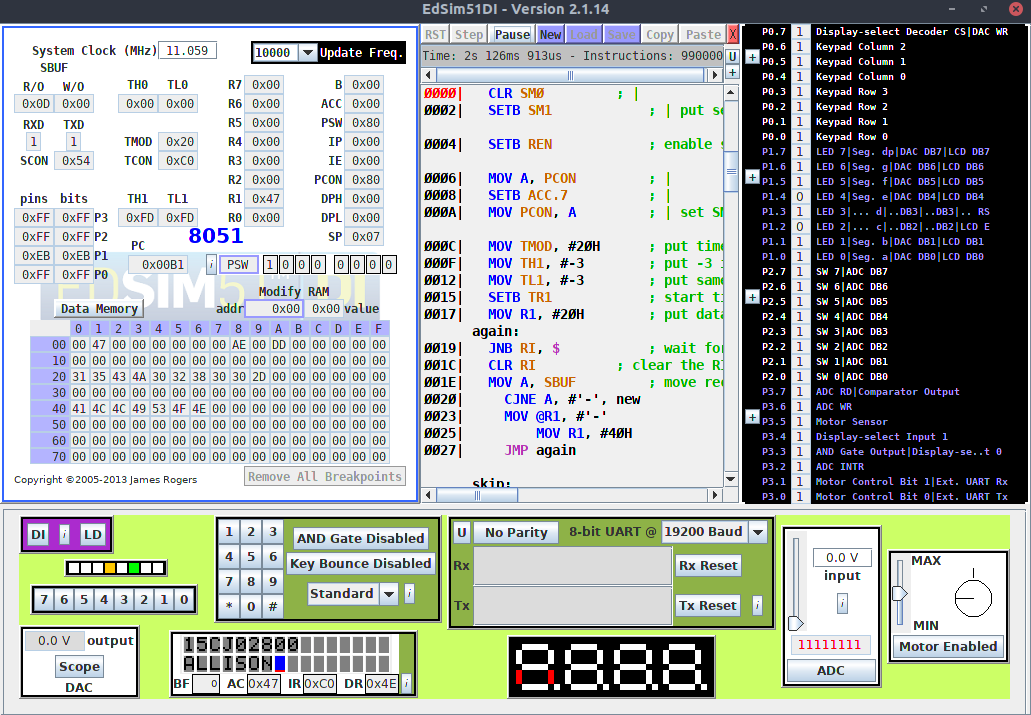
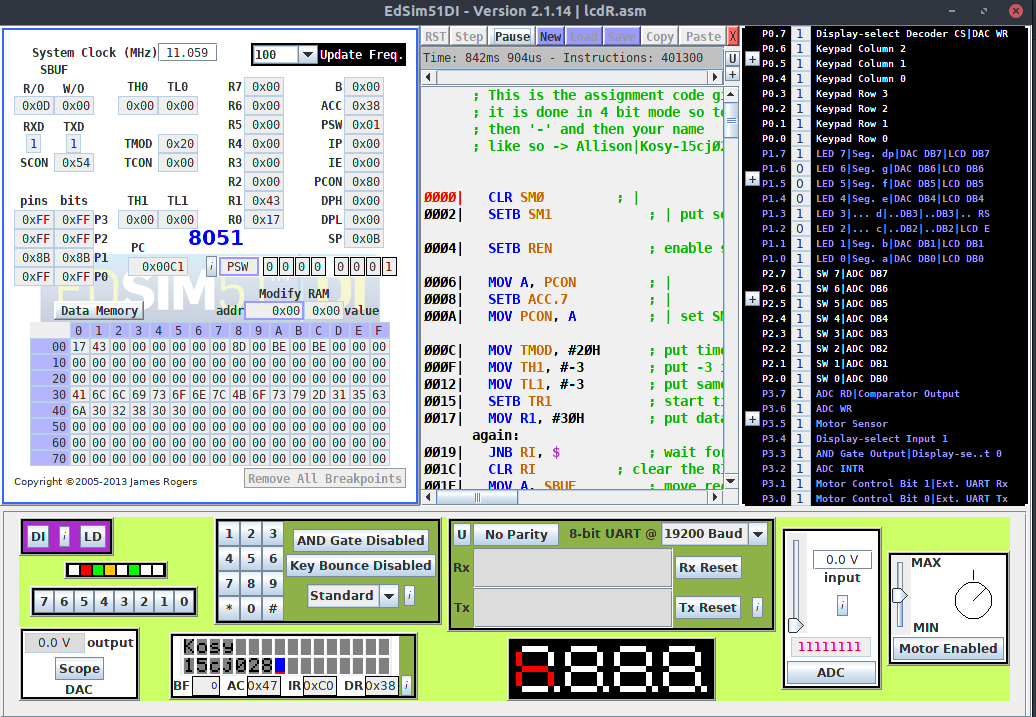
Do the loop

diff --git a/README.md b/README.md
@@ -53,10 +53,11 @@ While I vouch for the validity of this code let me state the following
 
 ```asm
 
+
 ; This is the assignment code given to us
-; it is done in 4 bit mode so to work it input your matric no followed by '-'
-; not "'-'" just '-' and then your name
-; like so -> 15CJ02800-ALLISON
+; it is done in 4 bit mode so to work it input your name followed by '|'
+; then '-' and then your name, it uses a primitive loop to run
+; like so -> Allison|Kosy-15cj02800
 
 
 	CLR SM0			; |
@@ -72,26 +73,23 @@ While I vouch for the validity of this code let me state the following
 	MOV TH1, #-3		; put -3 in timer 1 high byte (timer will overflow every 3 us)
 	MOV TL1, #-3		; put same value in low byte so when timer is first started it will overflow after approx. 3 us
 	SETB TR1			; start timer 1
-	MOV R1, #20H		; put data start address in R1
+	MOV R1, #30H		; put data start address in R1
 again:
 	JNB RI, $			; wait for byte to be received
 	CLR RI			; clear the RI flag
 	MOV A, SBUF			; move received byte to A
-    CJNE A, #'-', new
-    MOV @R1, #'-'
-        MOV R1, #40H
-    JMP again
-
+	CJNE A, #0DH, skip	; compare it with 0DH - it it's not, skip next instruction
+	JMP finish			; if it is the terminating character, jump to the end of the program
 skip:
 	MOV @R1, A			; move from A to location pointed to by R1
 	INC R1			; increment R1 to point at next location where data will be stored
 	JMP again			; jump back to waiting for next byte
-new:
-  CJNE A, #0DH, skip	; compare it with 0DH - it it's not, skip next instruction
-	JMP finish			; if it is the terminating character, jump to the end of the program
-
 finish:
+CLR TR1
 
+MOV TMOD, #20H
+MOV TH1, #00h
+MOV TL1, #00h
 
 
 ; initialise the display
@@ -144,58 +142,50 @@ finish:
 	CALL delay		; wait for BF to clear
 
 
-; display on/off control
+; display on/o0ff control
 ; the display is turned on, the cursor is turned on and blinking is turned on
-	CLR P1.7		; |
-	CLR P1.6		; |
-	CLR P1.5		; |
-	CLR P1.4		; | high nibble set
+  MOV A, #0Fh
+  CALL sendCharacter
 
-	SETB P1.2		; |
-	CLR P1.2		; | negative edge on E
 
-	SETB P1.7		; |
-	SETB P1.6		; |
-	SETB P1.5		; |
-	SETB P1.4		; | low nibble set
-
-	SETB P1.2		; |
-	CLR P1.2		; | negative edge on E
-
-	CALL delay		; wait for BF to clear
 
 ; send data
+rs:
 	SETB P1.3		; clear RS - indicates that data is being sent to module
-	MOV R1, #20H	; data to be sent to LCD is stored in 8051 RAM, starting at location 30H
+	MOV R1, #30H	; data to be sent to LCD is stored in 8051 RAM, starting at location 30H
 
 loop:
 	MOV A, @R1		; move data pointed to by R1 to A
-    CJNE A, #'-', cont
-	JMP nl
+
+    CJNE A, #'-', oda ; check for sep character for new line
+	JMP nl ; go to nl subroutine if Accumulator = '-'
+
+
+
 nl:
+; call wait subroutine to see data
+CALL wait
+
+  ; Set lcd module to recieve command RS->0
    CLR P1.3
-   SETB P1.7
-   SETB P1.6
-   CLR P1.5
-   CLR P1.4
 
-   	SETB P1.2		; |
-	CLR P1.2		; | negative edge on E
+; send new line command
+ MOV A, #0C0H
+ CALL sendCharacter
 
-   CLR P1.7
-   CLR P1.6
-   CLR P1.5
-   CLR P1.4
+; set lcd module to recieve data
 
-    SETB P1.2		; |
-	CLR P1.2		; | negative edge on E
-
-CALL delay
 SETB P1.3
-MOV R1, #40h
+INC R1
 JMP loop
 
 
+oda:
+
+    CJNE A, #'|', cont ;check for sep character |
+	CALL clear; clear lcd if Accumulator = |
+	INC R1 ; point to next memory location
+	JMP loop ; continue exec
 cont:
 	JZ end			; if A is 0, then end of data has been reached - jump out of loop
 	CALL sendCharacter	; send data in A to LCD module
@@ -203,8 +193,10 @@ cont:
 	JMP loop		; repeat
 
 end:
-	JMP $
+	CALL clear
+	JMP rs
 
+; subroutine to send data to lcd
 sendCharacter:
 	MOV C, ACC.7		; |
 	MOV P1.7, C			; |
@@ -232,15 +224,90 @@ sendCharacter:
 
 	CALL delay			; wait for BF to clear
 
+  RET
 
 
-
-
+; waits for lcd buffer to clear -> 37us
 delay:
 	MOV R0, #50
 	DJNZ R0, $
 	RET
 
+; sub routine to clear
+clear:
+
+; Set lcd module to recieve command RS->0
+   CLR P1.3
+
+   CALL wait
+
+   ; command to move cursor to top left
+
+   MOV A, #80H
+   call sendCharacter
+
+; command to clear lcd
+
+    MOV A,#01H
+	CALL sendCharacter
+
+
+; wait for buffer to clear. necessary to wait like 1500ms or so
+	MOV R0, #0FFh
+	DJNZ R0, $
+	MOV R0, #0FFh
+	DJNZ R0, $
+	MOV R0, #0FFh
+	DJNZ R0, $
+MOV R0, #0FFh
+	DJNZ R0, $
+
+
+    SETB P1.3
+
+	RET
+
+;Wait to see result.
+;  set to wait 6 machine cycles
+; about 3 secs depending on refresh rate
+wait:
+MOV TH1, #00h
+MOV TH1, #00h
+
+
+ SETB TR1
+
+ ;cycle 1
+ JNB TF1, $
+ CLR TF1
+
+
+ ;cycle 2
+JNB TF1, $
+CLR TF1
+
+;cycle 3
+JNB TF1, $
+CLR TF1
+
+;cycle 4
+ JNB TF1, $
+ CLR TF1
+
+ ;cycle 5
+JNB TF1, $
+CLR TF1
+
+;cycle 6
+
+JNB TF1, $
+CLR TF1
+
+; stop timer
+CLR TR1
+MOV TH1, #00h
+MOV TL1, #00h
+RET
 
 ```
 
@@ -251,3 +318,11 @@ wonderful christmas. Beseech what does it even mean and why was Apostle Paul
 always beseeching people
 
 ![Christmas](./undraw_christmas_tree_56sw.png)
+
+## Credits
+
+All illustrations from [Undraw](https://undraw.co) and is used under the [license](https://undraw.co/license)
+Edsim is a registered product for [Edsim](https://www.edsim51.com/) pictures
+of the Edsim software are only included for illustration purposes and is in no way affiliated with Allison Kosy.
+Brand names and or logos used are registered trademarks of their respected owners. Are included on educational
+basis and do not represent any association with Allison Kosy
